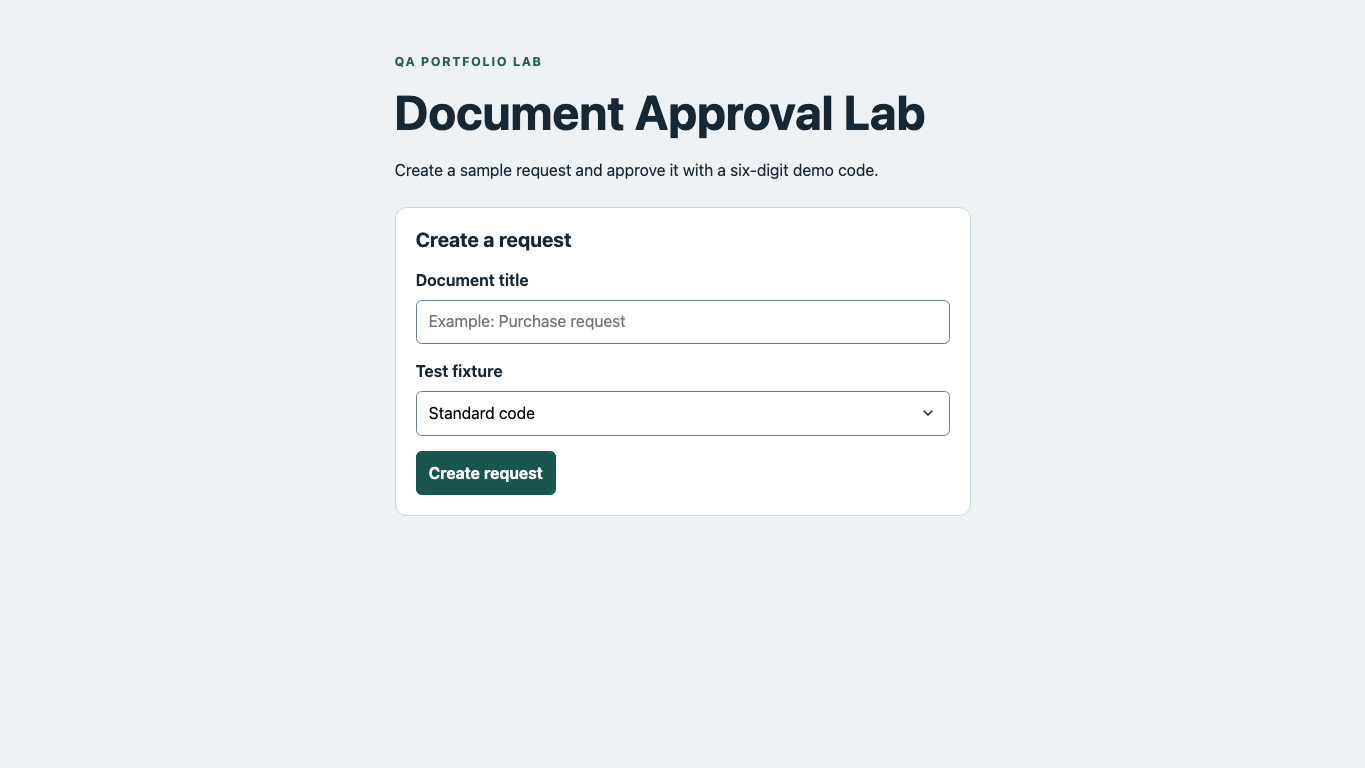
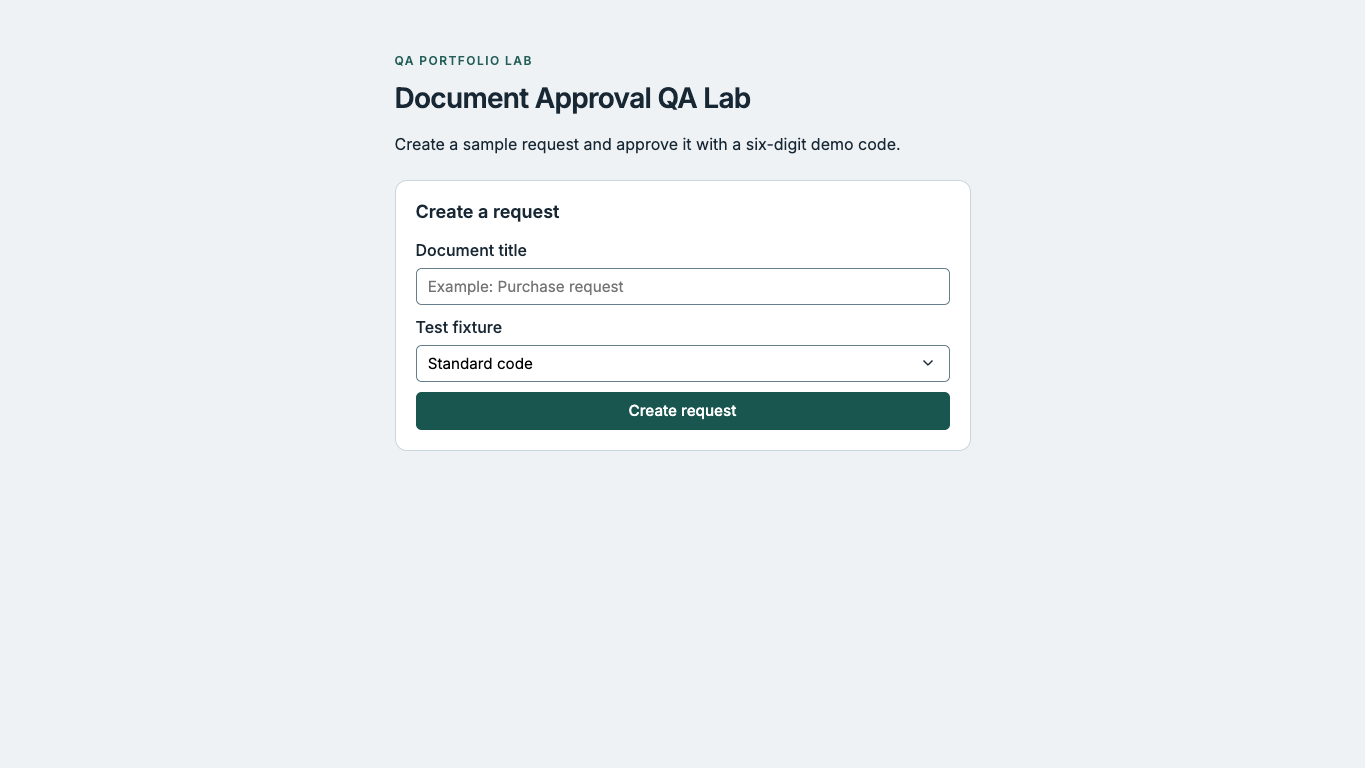
docs(portfolio): refresh screenshots and project overview

Changed region(s): [[0.2769, 0.0625, 0.7077, 0.6562]]

diff --git a/README.md b/README.md
@@ -3,9 +3,13 @@
 [![QA checks](https://github.com/ardi-zanki/qa-lab/actions/workflows/qa.yml/badge.svg?branch=main)](https://github.com/ardi-zanki/qa-lab/actions/workflows/qa.yml)
 
 Proyek portofolio QA untuk alur persetujuan dokumen dengan kode enam digit.
-Dokumen dan kode berasal dari fixture sintetis.
+Data dan kode hanya fixture sintetis. Aplikasi ini tidak mengelola dokumen nyata,
+memverifikasi identitas, atau membuat tanda tangan elektronik.
 
-![Tampilan aplikasi Document Approval Lab dengan formulir pembuatan permintaan](docs/images/app-preview.png)
+**Teknologi:** Node.js 24 (`node:sqlite`), SQLite, HTML, CSS, JavaScript,
+Playwright Test, Postman, dan GitHub Actions.
+
+![Tampilan awal aplikasi Document Approval QA Lab dengan formulir pembuatan permintaan](docs/images/app-preview.png)
 
 ![Tampilan aplikasi dengan permintaan Purchase request berstatus Approved dan waktu persetujuan WIB](docs/images/approved-state.png)
 
